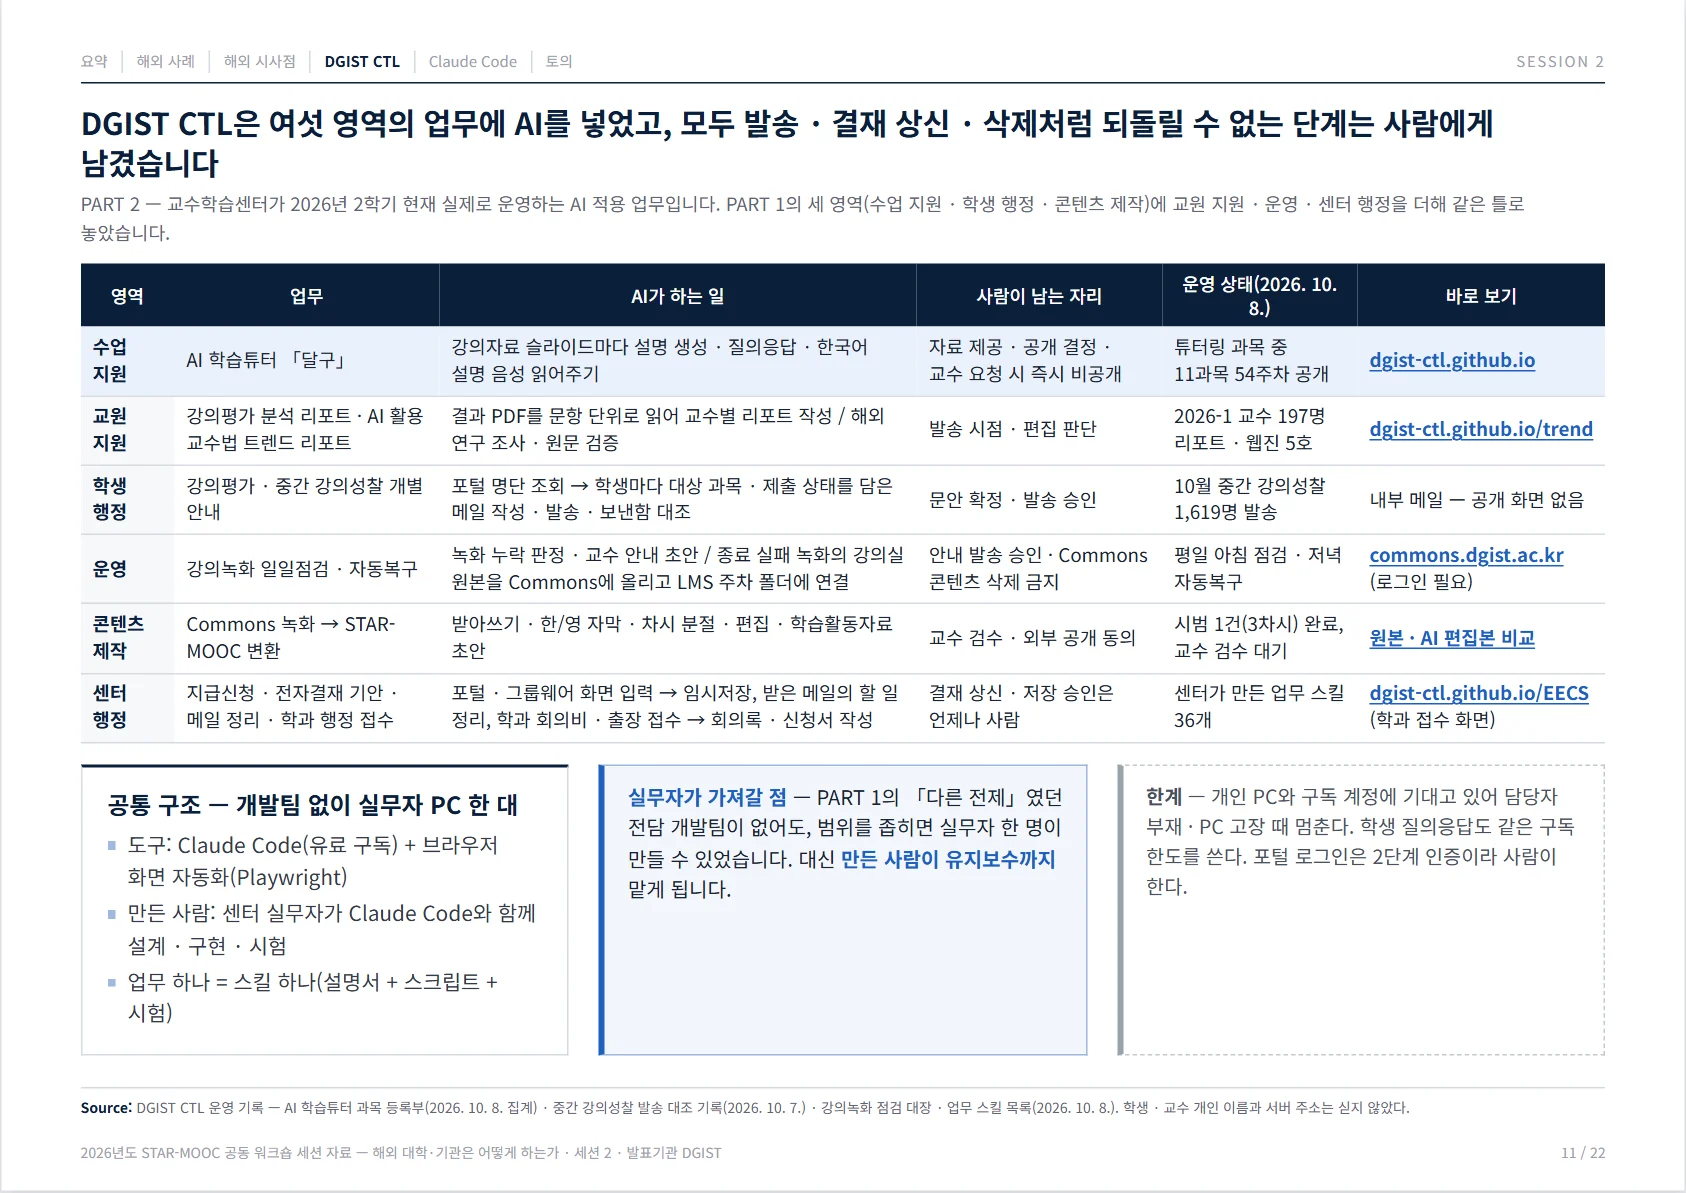
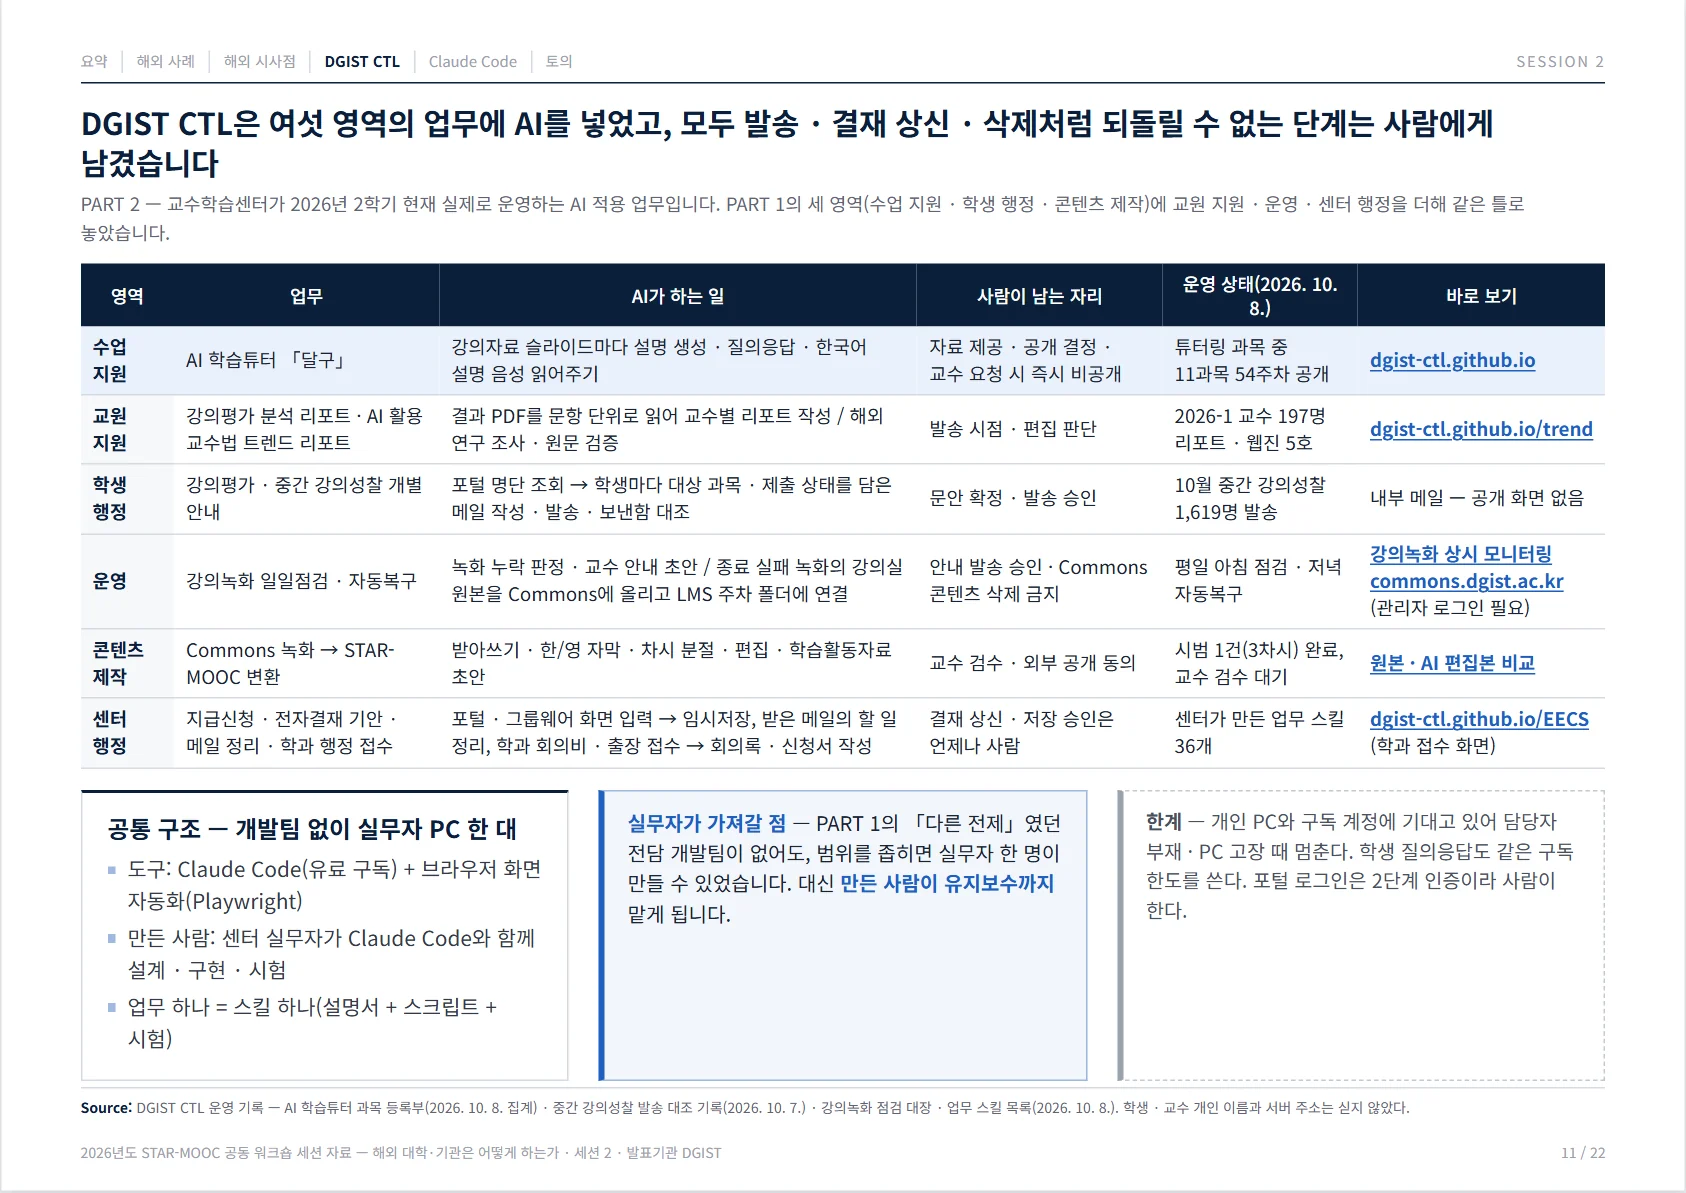
star-mooc: DGIST 세션 2 — 강의녹화 상시 모니터링 링크 추가

diff --git a/star-mooc/files/dgist-s2.html b/star-mooc/files/dgist-s2.html
@@ -521,7 +521,7 @@ h2{font-family:var(--sans);font-weight:700;font-size:15.2pt;line-height:1.36;col
       <tr class="hl"><td class="k">수업 지원</td><td>AI 학습튜터 「달구」</td><td>강의자료 슬라이드마다 설명 생성 · 질의응답 · 한국어 설명 음성 읽어주기</td><td>자료 제공 · 공개 결정 · 교수 요청 시 즉시 비공개</td><td>튜터링 과목 중 11과목 54주차 공개</td><td><a class="lk" href="https://dgist-ctl.github.io/" target="_blank" rel="noopener">dgist-ctl.github.io</a></td></tr>
       <tr><td class="k">교원 지원</td><td>강의평가 분석 리포트 · AI 활용 교수법 트렌드 리포트</td><td>결과 PDF를 문항 단위로 읽어 교수별 리포트 작성 / 해외 연구 조사 · 원문 검증</td><td>발송 시점 · 편집 판단</td><td>2026-1 교수 197명 리포트 · 웹진 5호</td><td><a class="lk" href="https://dgist-ctl.github.io/trend/" target="_blank" rel="noopener">dgist-ctl.github.io/trend</a></td></tr>
       <tr><td class="k">학생 행정</td><td>강의평가 · 중간 강의성찰 개별 안내</td><td>포털 명단 조회 → 학생마다 대상 과목 · 제출 상태를 담은 메일 작성 · 발송 · 보낸함 대조</td><td>문안 확정 · 발송 승인</td><td>10월 중간 강의성찰 1,619명 발송</td><td>내부 메일 — 공개 화면 없음</td></tr>
-      <tr><td class="k">운영</td><td>강의녹화 일일점검 · 자동복구</td><td>녹화 누락 판정 · 교수 안내 초안 / 종료 실패 녹화의 강의실 원본을 Commons에 올리고 LMS 주차 폴더에 연결</td><td>안내 발송 승인 · Commons 콘텐츠 삭제 금지</td><td>평일 아침 점검 · 저녁 자동복구</td><td><a class="lk" href="https://commons.dgist.ac.kr/" target="_blank" rel="noopener">commons.dgist.ac.kr</a><br>(로그인 필요)</td></tr>
+      <tr><td class="k">운영</td><td>강의녹화 일일점검 · 자동복구</td><td>녹화 누락 판정 · 교수 안내 초안 / 종료 실패 녹화의 강의실 원본을 Commons에 올리고 LMS 주차 폴더에 연결</td><td>안내 발송 승인 · Commons 콘텐츠 삭제 금지</td><td>평일 아침 점검 · 저녁 자동복구</td><td><a class="lk" href="https://commons.dgist.ac.kr/LectureDeckManager/Manager/LectureStatus" target="_blank" rel="noopener">강의녹화 상시 모니터링</a><br><a class="lk" href="https://commons.dgist.ac.kr/" target="_blank" rel="noopener">commons.dgist.ac.kr</a><br>(관리자 로그인 필요)</td></tr>
       <tr><td class="k">콘텐츠 제작</td><td>Commons 녹화 → STAR-MOOC 변환</td><td>받아쓰기 · 한/영 자막 · 차시 분절 · 편집 · 학습활동자료 초안</td><td>교수 검수 · 외부 공개 동의</td><td>시범 1건(3차시) 완료, 교수 검수 대기</td><td><a class="lk" href="https://dgist-ctl.github.io/star-mooc/mooc-sample/" target="_blank" rel="noopener">원본 · AI 편집본 비교</a></td></tr>
       <tr><td class="k">센터 행정</td><td>지급신청 · 전자결재 기안 · 메일 정리 · 학과 행정 접수</td><td>포털 · 그룹웨어 화면 입력 → 임시저장, 받은 메일의 할 일 정리, 학과 회의비 · 출장 접수 → 회의록 · 신청서 작성</td><td>결재 상신 · 저장 승인은 언제나 사람</td><td>센터가 만든 업무 스킬 36개</td><td><a class="lk" href="https://dgist-ctl.github.io/EECS/" target="_blank" rel="noopener">dgist-ctl.github.io/EECS</a><br>(학과 접수 화면)</td></tr>
     </table>
@@ -641,6 +641,7 @@ h2{font-family:var(--sans);font-weight:700;font-size:15.2pt;line-height:1.36;col
         <li><b>복구</b> — 종료에 실패한 녹화는 강의실 녹화기에 남은 원본을 찾아 Commons에 올리고, 저녁에 LMS의 해당 주차 폴더에 연결한다.</li>
       </ul>
       <div class="note">2학기 전수 조사(9. 21.): 콘텐츠가 없는 정규 과목 녹화 10건을 찾아, 원본이 있는 건은 복구했다. 시작부터 실패한 3건은 녹화기에도 원본이 없었다 — 「복구」가 아니라 「다음 수업 전 안내」가 답인 경우다.</div>
+      <div class="links"><b>바로 보기</b><a class="lk" href="https://commons.dgist.ac.kr/LectureDeckManager/Manager/LectureStatus" target="_blank" rel="noopener">강의녹화 상시 모니터링</a> LectureDeck 강의 콘텐츠 등록 현황 · 관리자 로그인 필요</div>
     </div>
     <div class="col">
       <div class="card navy">
